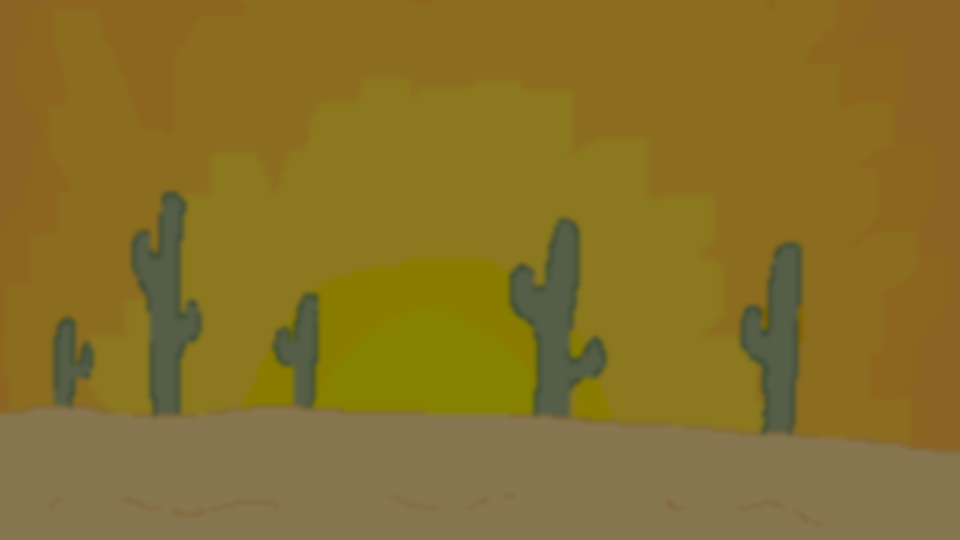
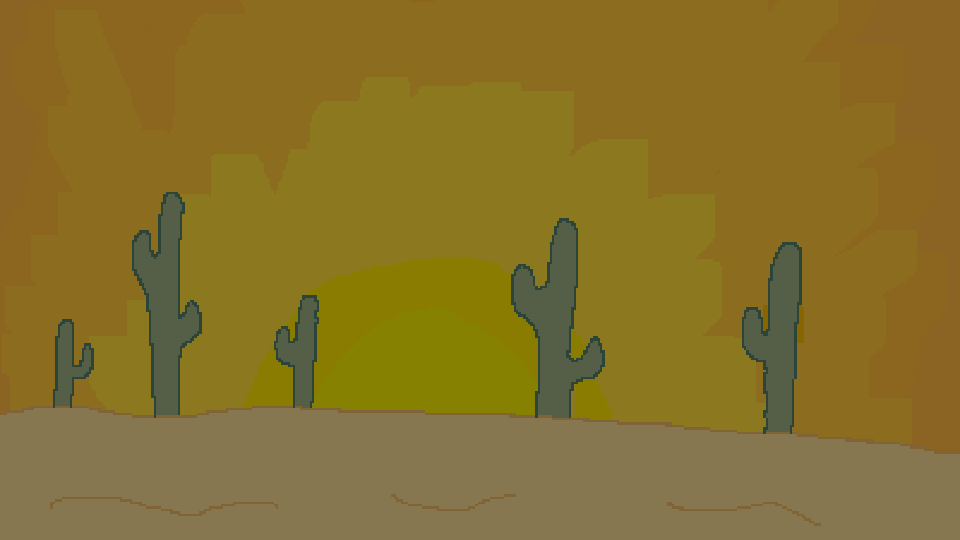
Crisp background with no blur, white home screen
- In-game background is the sunset picture as drawn, darkened, no blur
- Home screen is plain white with dark text

diff --git a/Assets/Scripts/PixelUI.cs b/Assets/Scripts/PixelUI.cs
@@ -21,24 +21,27 @@ public static class PixelUI
 
     public static int TextWidth(string text, int size) => PixelFont.Width(text) * size;
 
-    // Text with a one-pixel drop shadow. Returns the x just past the text, in game pixels.
-    public static int Text(int x, int y, string text, int size, Color color)
+    // Text, with a one-pixel drop shadow unless shadow is false (plain dark text on a white screen). Returns the x just past the text, in game pixels.
+    public static int Text(int x, int y, string text, int size, Color color, bool shadow = true)
     {
         var tex = PixelFont.Texture(text);
         if (tex == null) return x;
         var rect = ToScreen(x, y, tex.width * size, tex.height * size);
-        float shadow = Scale * size;
+        float offset = Scale * size;
         var previous = GUI.color;
-        GUI.color = Ink;
-        GUI.DrawTexture(new Rect(rect.x + shadow, rect.y + shadow, rect.width, rect.height), tex);
+        if (shadow)
+        {
+            GUI.color = Ink;
+            GUI.DrawTexture(new Rect(rect.x + offset, rect.y + offset, rect.width, rect.height), tex);
+        }
         GUI.color = color;
         GUI.DrawTexture(rect, tex);
         GUI.color = previous;
         return x + PixelFont.Width(text) * size;
     }
 
-    public static void TextCentered(int y, string text, int size, Color color) =>
-        Text((RefWidth - TextWidth(text, size)) / 2, y, text, size, color);
+    public static void TextCentered(int y, string text, int size, Color color, bool shadow = true) =>
+        Text((RefWidth - TextWidth(text, size)) / 2, y, text, size, color, shadow);
 
     public static void Box(float x, float y, float width, float height, Color color)
     {

diff --git a/Assets/Scripts/ScreenUI.cs b/Assets/Scripts/ScreenUI.cs
@@ -67,9 +67,10 @@ public sealed class ScreenUI : MonoBehaviour
 
         if (kind == Kind.Menu)
         {
-            PixelUI.TextCentered(22, "Bouncing Bullet Baby", 3, paper);
+            // The home screen is plain white, so its text is dark ink with no shadow.
+            PixelUI.TextCentered(22, "Bouncing Bullet Baby", 3, PixelUI.Ink, false);
             PixelUI.Image(face, faceX, 104, FaceSize, Color.white);
-            PixelUI.TextCentered(280, "Bank your shots off the walls", 2, paper);
+            PixelUI.TextCentered(280, "Bank your shots off the walls", 2, PixelUI.Ink, false);
         }
         else if (kind == Kind.GameOver)
         {

diff --git a/Assets/Scripts/Editor/LevelBuilder.cs b/Assets/Scripts/Editor/LevelBuilder.cs
@@ -109,8 +109,10 @@ public static class LevelBuilder
     {
         string path = $"Assets/Scenes/{sceneName}.unity";
         var scene = EditorSceneManager.NewScene(NewSceneSetup.EmptyScene, NewSceneMode.Single);
-        BuildCamera();
-        BuildBackground();
+        var cam = BuildCamera();
+        // The home screen is plain white; game over and the end screen keep the game background.
+        if (kind == ScreenUI.Kind.Menu) cam.backgroundColor = Color.white;
+        else BuildBackground();
         var go = new GameObject("Screen");
         var ui = go.AddComponent<ScreenUI>();
         ui.kind = kind;
